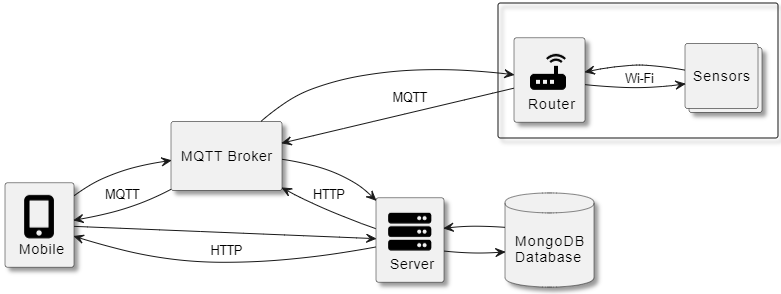
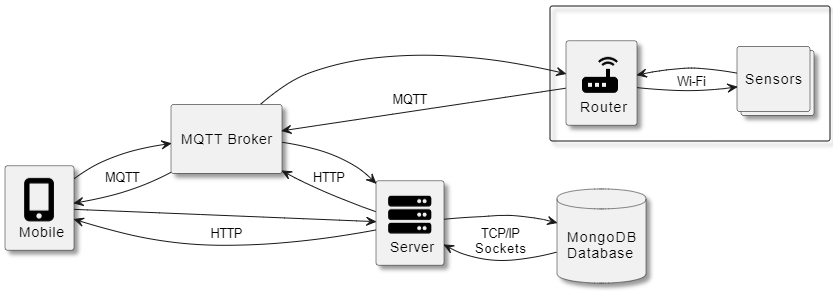
Chapter5: Finalized Android Application description

diff --git a/templateLaTeX-Rom-2024/templateLaTeX-Rom/proiectare_implementare.tex b/templateLaTeX-Rom-2024/templateLaTeX-Rom/proiectare_implementare.tex
@@ -4,22 +4,161 @@
 Acest capitol prezinta in detaliu solutia propusa pentru un sistem de monitorizare a temperaturii si a umiditatii. Aceasta include protocoalele de 
 comunicatie utilizate, limbajele de programare si arhitecturi de abstractizare.
 
-Arhitectura generala a sistemului este compusa din 5 componente pricipale descrise succint in cele ce urmeaza:
-\begin{itemize}
-	\item Aplicatie Android - reprezinta interfata cu utilizatorul.
-	\item MQTT Broker - reprezinta un server specializat pe protocolul de comunicatie MQTT.
-	\item Server - reprezinta un server pentru comunicatia cu baza de date
-	\item Baza de date - reprezinta locul si modul in care sunt stocate datele.
-	\item Senzor - reprezinta un dispozitiv care are capabilitatea de a achizitiona temperatura si umiditatea dintr-un mediu si de a comunica cu un router.
-\end{itemize}
+Arhitectura generala a sistemului este compusa din 5 componente pricipale interconectate pentru a crea o retea bine definita si cu o flexibilitate
+ridicata:
+\begin{enumerate}
+	\item Aplicatie Android
+	\item MQTT Broker
+	\item Server
+	\item Baza de date
+	\item Senzor
+\end{enumerate}
 
-Figura \ref{fig:ArhitecturaGenerala} prezinta arhitectura generala a sistemului 
+\
+
+Figura \ref{fig:ArhitecturaGenerala} prezinta arhitectura generala a sistemului continand modulele principale ale acestuia si protocoalele de comunicatie 
+dintre acestea.
 \begin{figure}[H]
     \centering
-    \includegraphics[scale=0.76]{figs/ArhitecturaGenerala.png}
+    \includegraphics[scale=0.72]{figs/ArhitecturaGenerala.png}
     \caption{Arhitectura generala a proiectului}
     \label{fig:ArhitecturaGenerala}
 \end{figure}
+
+In subcapitolele urmatoare va fi descris in mod detaliat fiecare modul al sistemului si protocoalele de comunicatie utilizate pentru comunicarea dintre 
+acestea.
+
+\section{Aplicatia Android}\label{sec:pi_appandroid}
+Aplicatia Android reprezinta interfata cu utilizatorul oferindui acestuia un mod usor de a gestiona mai multi senzori si de a monitoriza datele venite de la
+acestia. Este scrisa in limbajul de programare Java si ruleaza pe sistemul de operare Android. Proiectul este scris in mediul de dezvoltare integrat Android 
+Studio IDE.
+
+In sistemul de operare Android clasele care definesc o interfata grafica sunt denumite activitati. La deschiderea aplicatiei este deschis firul de executie principal 
+care are sarcina de a afisa interfetele grafice si de a gestiona actiunile utilizatorului, de exemplu, apasare de buton. Fiecare clasa de tip activitate extinde 
+clasa AppCompatActivity care ofera componente pentru afisarea grafica si metode callback pentru gestionarea navigarii intre mai multe activitati. 
+
+Aplicatia este compusa din 2 activitati principale si cateva secundare:
+\begin{enumerate}
+	\item ActivityWelcome - reprezinta activitatea care este afisata la deschiderea aplicatiei.
+	\item ActivitySensor - reprezinta activitatea care este afisata atunci cand utilizatorul selecteaza un senzor din lista.
+	\item ActivityInstall - reprezinta un grup de activitati secundare afisate atunci cand utilizatorul instaleaza un senzor nou. Fiecare dintre aceste 
+	activitati reprezinta un pas din procesul de instalare.
+\end{enumerate}
+
+\
+
+Figura \ref{fig:AndroidClassDiagram} prezinta diagrama de clase a aplicatiei Android.
+\begin{figure}[H]
+    \centering
+    \includegraphics[scale=0.64]{figs/AndroidClassDiagram.png}
+    \caption{Arhitectura generala a proiectului}
+    \label{fig:AndroidClassDiagram}
+\end{figure}
+
+La incarcarea primei activitati care este afisata pe ecranul dispozitivului mobil, numita ActivityWelcome, se extrage din memorie o lista de senzori care au fost 
+instalati in prealabil. Daca nu exista senzori instalati, aceasta lista nu va contine elemente. Lista este parcursa si pentru fiecare senzor este pornit un nou 
+fir de executie periodic. Acest fir de executie are rolul de a gestiona conexiunea cu modulul MQTT Broker pentru senzorul respectiv, iar periodicitatea 
+acestuia perimite verificarea si reincercarea conexiunii la un interval fix de timp. Apoi aceasta lista este afisata in interfata grafica. Fiecare element din lista 
+contine: denumirea senzorului, tipul de senzor, statusul conexiunii si o imagine reprezentativa a senzorului.
+
+Pentru memorarea senzorilor installati este utilizata biblioteca SharedPreferences. Aceasta contine rutine pentru salvarea datelor intr-un fisier din memoria 
+dispozitivului mobil intr-un format de forma (cheie, valoare). Primul camp din acest fisier reprezinta numarul de senzori salvati, iar campurile ce urmeaza 
+reprezinta senzorii instalati. Aceasta biblioteca este potrivita pentru memorarea datelor sub forma (cheie, valoare) si pentru compatibilitatea cu versiuni mai 
+vechi de Android, spre deosebire de alte biblioteci precum DataStore care sunt potrivite pe seturi de date complexe si functioneaza doar in versiunile mai noi de 
+Android.
+
+Pentru firele de executie periodice este utilizata biblioteca ScheduledThreadPoolExecutor. Acesasta permite crearea unui grup de fire de executie care se executa
+in paralel, spre deosebire de biblioteca Timer care are un singur fir de executie, iar o sarcina de durata mai lunga poate intarzia alte sarcini care asteapta 
+executia. De asemenea, in cazul unei erori, doar sarcina in care a aparut eroarea va fi oprita, celelalte sarcini fiind executate in mod obisnuit. Aceasta 
+biblioteca ofera siguranta continuarii executiei aplicatiei in cazul unei erori izolate.
+
+La selectarea de catre utilizator a unui senzor din lista afisata este deschisa o noua activitate, numita ActivitySensor, iar la atingerea butonului de adaugare a unui 
+nou senzor este deschisa prima activitate din grupul de activitati specifice instalarii. Pentru navigarea la o noua activitate si pentru transferarea de informatii intre 
+activitati este utilizata clasa Intent. Aceasta clasa reprezinta o descriere abstracta a unei operatii. Cea mai semnificativa utilizare a acesteia este pentru operatia de 
+deschidere a unei noi activitati. Pentru aceasta operatie se apeleaza functia startActivity() care primeste ca parametru o instanta a clasei Intent care contine informatiile 
+necesare pentru ca operatia sa fie executata. Informatii precum activitatea parinte si activitatea care urmeaza a fi executata sunt necesare, iar in plus pot fi adaugate 
+informatii care sa fie transferate catre activitatea copil utilizant functia putExtra() care primeste ca parametru o structura de tipul (cheie, valoare).
+
+Pentru fiecare fir de executie specific unui senzor se creaza o instanta a clasei ScheduledDataAcquisition care implementeaza interfata runnable si executa periodic o rutina 
+in care se verifica daca senzorul este conectat la modulul MQTT Broker. La prima executie senzorul este considerat deconectat si se executa rutina de conectare. 
+Aceasta rutina utilizeaza clasa MQTTClient care ofera metodele necesare realizarii si gestionarii conexiunii cu modulul MQTT Broker. Pentru realizarea conexiunii se 
+executa metoda connect a clasei MQTTClient care primeste ca paramterii 2 rutine callback. Aceste rutine definesc actiuni ce sunt executate atunci cand au loc 
+diferite evenimente in tranzactionarea cu modulul MQTT Broker. Mai jos sunt enumerate cele mai importante astfel de evenimente:
+\begin{itemize}
+	\item Connectarea cu success la modulul MQTT Broker - cand are loc acest eveniment se executa rutina de subscriere pentru receptionarea in timp real a datelor de la 
+	senzor.
+	\item Pierderea conexiunii - acest eveniment va modifica statusul conexiunii din lista de senzori a-i activitatii ActivityWelcome si din ActivitySensor.
+	\item Receptia unui mesaj - acest eveniment va apela metoda notifyListeners() a obiectului UIThreadHandler care va actualiza ultima valoare de temperatura si 
+	umiditate afisata in activitatile ActivityWelcome si ActivitySensor. De asemenea, acest eveniment va verifica si statusul conexiunii senzorului si il va schimba 
+	daca este cazul.
+\end{itemize}
+
+Clasa MQTTClient utilizeaza o instanta a clasei MqttAndroidClient oferita de biblioteca eclipse.paho.mqttv3 care reprezinta o implementare asincrona a 
+al unui client al protocolului MQTT si are rolul de a gestiona impachetarea messajelor in formatul protocolului MQTT si tranzactionarea acestora cu un server MQTT. De asemenea, 
+clasa MQTTClient defineste rutine de gestionare a exceptilor ridicate de obiectul MqttAndroidClient in cazul unei erori. 
+
+Clasa UIThreadHandler are rolul de a efectua modificari in interfetele grafice de pe un fir de executie extern. Clasele de tip activitate sunt executate pe un fir de executie 
+care are rolul strict de a raspunde la actiunile utilizatorului si doar acest fir de executie poate face modificari in interfata grafica, iar interogarea bazei de date sau 
+receptionarea de date de la modulul MQTT sunt executate pe fire de executie diferite. Aceasta clasa realizeaza transferul de date sau evenimente care necesita modificarea 
+interfetei grafice si care au fost primite pe un fir de executie extern catre firul de executie al interfetei grafice. Pentru a realiza acest transfer, instanta clasei  
+UIThreadHandler mentine o lista de clase de tip Listener. Activitatile AvtivityWelcome si ActivitySensor sunt clase de tip Listener, deoarece implementeaza interfata 
+Listener si metoda updateMetrics() a acesteia, iar la creare se inregistreaza in lista de obiecte Listener mentinuta de instanta UIThreadHandler. Fiecare activitate 
+defineste in metoda updateMetrics() ce anume va fi modificat in interfata grafica. Atunci cand sunt receptionate date de la modulul MQTT Broker, se executa metoda 
+notifyListeners() a obiectului UIThreadHander. Aceasta metoda parcurge lista de clase de tip Listener si pentru fiecare apeleaza metoda updateMetrics(). Aceasta metoda nu este 
+apelata direct, ci prin obiectul Handler care primeste ca parametru o rutina de tip Runnable si care este pus intr-o coada de executie a interfetei grafice.
+
+La selectarea unui element din lista de senzori afisata in activitatea ActivityWelcome este creata activitatea ActivitySensor. Rolul acesteia este de a prezenta informatiile 
+senzorului selectat si datele de temperatura si umiditate ale acestuia sub forma grafica si sub forma a 2 campuri care contin doar ultima valoare receptionata. La creare 
+se citeste din obiectul Intent primit de la activitatea ActivityWelcome informatiile senzorului intr-un obiect SensorListItem, se afiseaza informatiile senzorului in 
+interfata grafica, se initializeaza graficele de temperatura si umiditate si se interogheaza baza de date pentru valorile din ultimele 10 minute. La primirea valorilor 
+citite din baza de date, acestea sunt scrise in graficul de temperatura, respectiv umiditate. Daca nu exista date in ultimele 10 minute inseamna ca senzorul nu este conectat, iar 
+statusul acestuia este modificat corespunzator. 
+
+Pentru interogarea bazei de date este utilizata biblioteca Retrofit a carei functionalitate teoretica este descrisa in sectiunea \ref{sec:retrofit}. Pentru implementarea 
+rutinelor de interogare a bazei de date utilizand aceasta biblioteca sunt utilizate urmatoarele clase din figura \ref{fig:AndroidClassDiagram}:
+\begin{itemize}
+	\item Clasa DBAPIClient - are rolul de a crea un obiect de tip Retrofit. Pentru crearea acestuia sunt necesare: adresa URL a server-ului, un obiect GsonConverterFactory 
+	pentru convertirea automata a datelor si o instanta a clasei OkHttpClient.
+	\item Interfata DBAPIInterface - declara metodele pentru interogarea bazei de date utilizand adnotari.
+	\item Clasa SensorReading - este o clasa model care contine campurile receptionate in raspunsul metodei doGetSensorReading().
+	\item Clasa SensorReadingsList - este o clasa model care contine o lista de obiecte de tip SensorReading. Aceasta lista reprezinta raspunsul metodei doGetSensorReadingsList().
+\end{itemize}
+
+La initierea unei interogari a bazei de date se obtine obiectul Retrofit utilizand metoda getClient() a clasei DBAPIClient. Se apeleaza metoda create() a obiectului Retrofit care 
+primeste ca parametru interfata DBAPIInterface, iar pe baza acestei interfete, Retrofit va genera automat o clasa care contine implementarea metodelor declarate in aceasta. 
+Utilizand instanta clasei creata automat se acceseaza una din metodele acesteia si se pune intr-o coada de transmisie impreuna cu o metoda callback care va fi executata cand 
+este receptionat raspunsul de la server sau cand expira timpul de asteptare. La receptionarea raspunsului, biblioteca Retrofit va interpreta datele receptionate in format GSON 
+bazat pe clasa model specifica metodei care s-a executat si va crea un obiect de acest tip. In metoda callback se citeste obiectul si se adauga valorile de temperatura si 
+umiditate in graficul respectiv fiecareia. Pentru interpretare, a fost utilizat obiectul GsonConverterFactory care a fost instantiat la crearea obiectului Retrofit.
+
+Pentru instalarea unui nou senzor, la apasarea butonului de adaugare din activitatea ActivityWelcome se deschide prima activitate din setul de activitati pentru instalare. 
+Aceasta activitate cere utilizatorului inserarea datelor de conectare la senzor oferite in manualul de instalare. La apasarea butonului Next se deschide a activitatea de 
+instalare specifica pasului doi in care se cere introducerea informatiilor router-ului prin care i se ofera senzorului access la internet. Al treila pas este reprezentat 
+printr-o activitate care afiseaza durata si progresul procesului de instalare. La acest pas se realizeaza conexiunea completa a senzorului. La finalizeara conexiunii apare 
+in activitate un buton care va redeschide activitatea ActivityWelcome, iar noul senzor adaugat va fi afisat in lista acesteia. 
+
+\section{MQTT Broker}\label{sec:pi_mqttbroker}
+Aici nu am diagrama.
+Am folosit mosquito.
+Mosquito ruleaza intr-o masina virtuala din google.
+Configurarea si startarea mosquito.
+Utilizarea fisierului care executa task-uri automat in linux.
+Configurarea IP-ului pe care mosquito asculta.
+Ce topic-uri exista. Formatul topic-urilor.
+
+\section{RESTful Server}\label{sec:pi_restserver}
+Scris in python.
+Diagrama care prezinta subscriber-ul for all.
+Am utilizat Flask detaliere functionalitate Flask.
+Diagrama care prezinta RESTful API.
+Problema cu timpul din python.
+
+\section{Baza de date}\label{sec:pi_bazadedate}
+Formatul datelor.
+Avantaje ale time database si a indicilor de cautare.
+Prezentare operatie de agregare. Aici sau la Restful server?
+
+\section{Senzor}\label{sec:pi_senzor}
 
 
 {\color{blue}Împreună cu capitolul \textbf{precedent} și cel \textbf{următor} trebuie să reprezinte aproximativ 70\% din total.\\}

diff --git a/templateLaTeX-Rom-2024/templateLaTeX-Rom/figs/diagrams.md b/templateLaTeX-Rom-2024/templateLaTeX-Rom/figs/diagrams.md
@@ -254,12 +254,105 @@ android <-- server : HTTP
 mqtt --> server
 mqtt <-- server : HTTP
 server --> mongodb
-server <-- mongodb
+server <-- mongodb : "TCP/IP\nSockets"
 mqtt ---> router
 mqtt <--- router : MQTT
 router --> sensor : Wi-Fi
 router <-- sensor
 
+
+@enduml
+```
+
+# Application general scheme
+```plantuml
+@startuml
+skinparam shadowing true
+skinparam linetype poly
+skinparam classAttributeIconSize 0
+
+class ActivityWelcome {
+    -sharedPreferences : SharedPreferences
+    -sensorArrayList : ArrayList<SensorListItem>
+    -scheduler : ScheduledExecutorService
+    +updateMetrics()
+}
+class ActivitySensor {
+    -chartTemperature
+    -chartHumidity
+    +updateMetrics()
+    +chartInitTemperatureData()
+    +chartInitHumidityData()
+}
+class ScheduledDataAcquisition <<Runnable>> {
+    -mqttClient : MQTTClient
+    -sensorListItem : SensorListItem
+    +run()
+    +notifyListeners()
+}
+class UIThreadHandler {
+    -listeners : Set<Listener>
+    +addListener()
+    +removeListener()
+    +notifyListeners()
+}
+class MQTTClient {
+    -mqttAndroidClient
+    +connect()
+    +subscribe()
+    +unsubscribe()
+    +publish()
+    +disconnect()
+}
+class SensorListItem {
+    -name
+    -type
+    -status
+    -imageId
+    -lastTemp
+    -lastHumid
+}
+class DBAPIClient <<Retrofit>> {
+    -retrofit : Retrofit
+    +getClient()
+}
+class SensorReading {
+    +sensorMAC
+    +type
+    +value
+    +timestamp
+}
+class SensorReadingsList {
+    +sensorReadings : List<SensorReading>
+}
+
+
+interface Listener {
+    +updateMetrics()
+}
+interface DBAPIInterface {
+    +doGetSensorReading()
+    +doGetSensorReadingsList()
+}
+
+
+ActivityWelcome ..|> Listener
+ActivityWelcome --|> ScheduledDataAcquisition
+ActivityWelcome --|> SensorListItem
+
+ActivitySensor ....|> Listener
+ActivitySensor --|> DBAPIClient
+
+DBAPIClient --|> DBAPIInterface
+DBAPIInterface --|> SensorReadingsList
+DBAPIInterface --|> SensorReading
+
+ScheduledDataAcquisition --|> UIThreadHandler
+ScheduledDataAcquisition --|> MQTTClient
+ScheduledDataAcquisition --|> SensorListItem
+
+UIThreadHandler --|> UIThreadHandler
+UIThreadHandler o-- Listener
 
 @enduml
 ```
